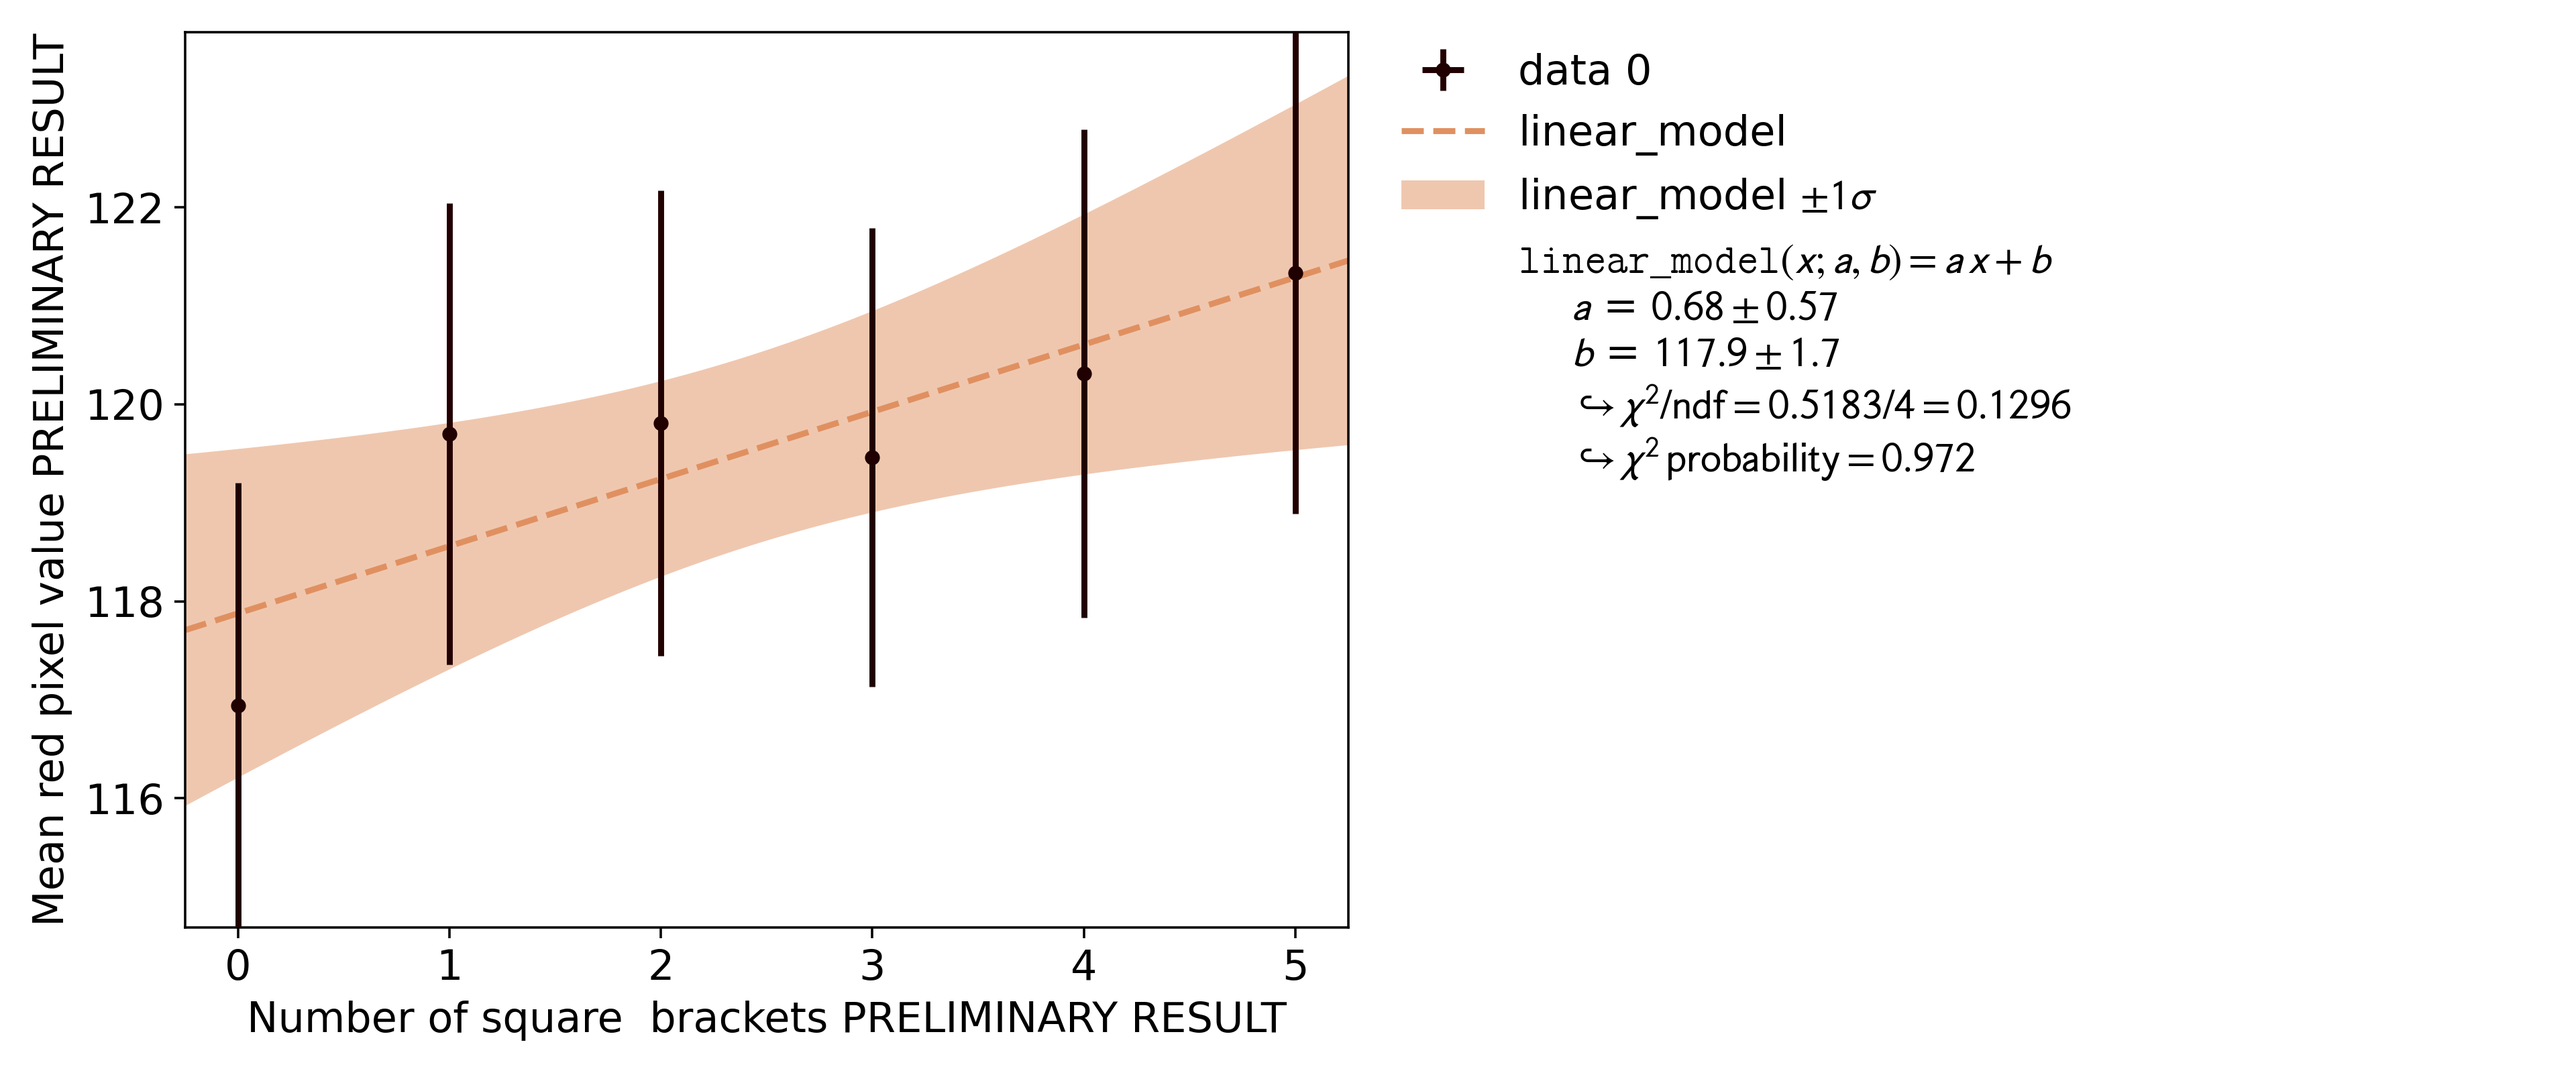
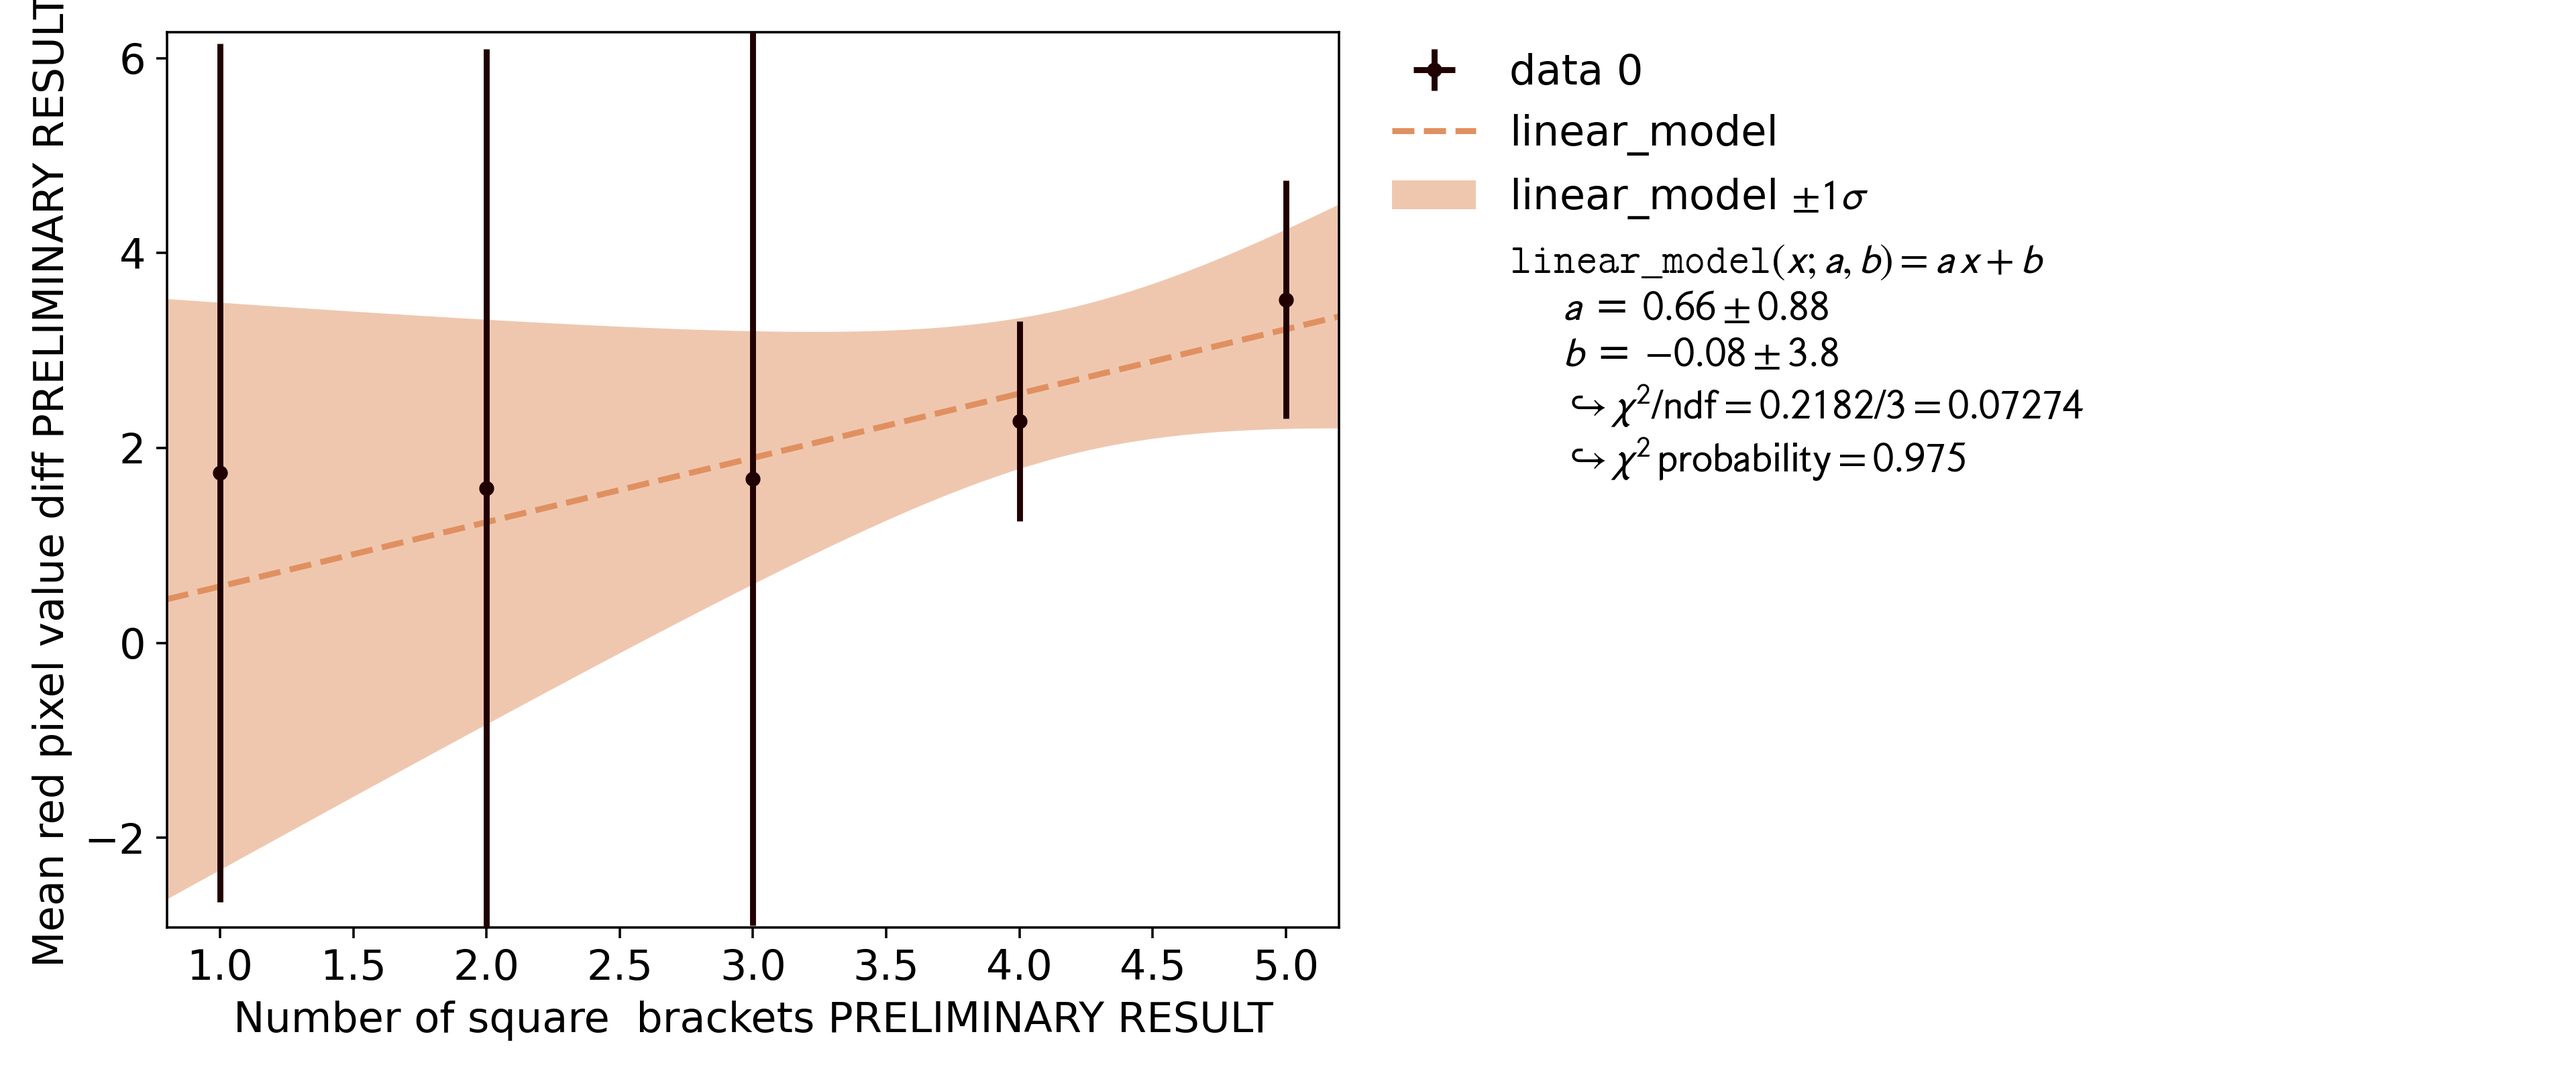
Revised uncertainty model

diff --git a/analyze_square_brackets.py b/analyze_square_brackets.py
@@ -15,23 +15,30 @@ PROMPTS = [
     "Flowers, [[[[[red]]]]], blue",
 ]
 
-x_data = np.arange(len(PROMPTS))
+x_data = np.arange(1, len(PROMPTS))
 y_data = []
 y_error = []
 
-for prompt in PROMPTS:
+for i, prompt in enumerate(PROMPTS):
     prompt_dir = os.path.join(SAMPLE_DIR, prompt)
-    means = []
+    means_i = []
     file_list = os.listdir(prompt_dir)
     num_samples = len(file_list)
+
     for filename in file_list:
         if not filename.endswith(".png"):
             continue
         image = iio.v3.imread(os.path.join(prompt_dir, filename))
         red = np.mean(image[:, :, 0])
-        means.append(red)
-    y_data.append(np.mean(means))
-    y_error.append(np.std(means) / np.sqrt(num_samples))
+        means_i.append(red)
+
+    means_i = np.array(means_i)
+    if i == 0:
+        means_0 = means_i
+    else:
+        diffs = means_i - means_0
+        y_data.append(np.mean(diffs))
+        y_error.append(np.std(diffs) / np.sqrt(num_samples))
 
 
 fit = XYFit([x_data, y_data])
@@ -40,6 +47,7 @@ fit.do_fit()
 
 plot = Plot(fit)
 plot.x_label = "Number of square  brackets PRELIMINARY RESULT"
-plot.y_label = "Mean red pixel value PRELIMINARY RESULT"
+plot.y_label = "Mean red pixel value diff PRELIMINARY RESULT"
 plot.plot()
+plot.save("square_brackets.png", dpi=320)
 plot.show()
